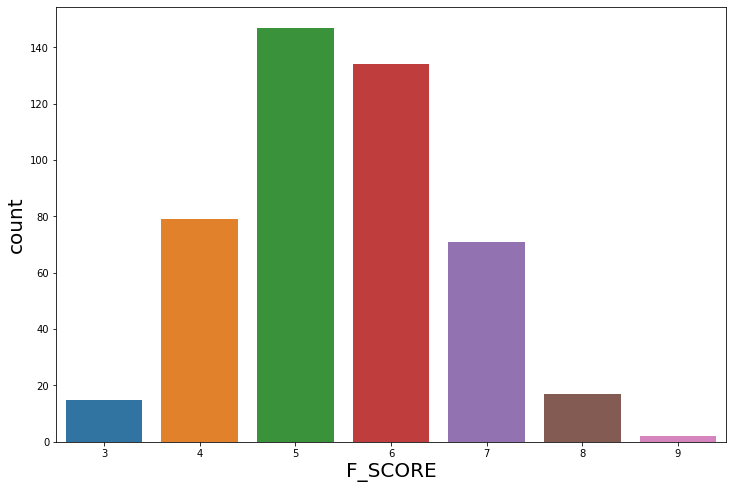
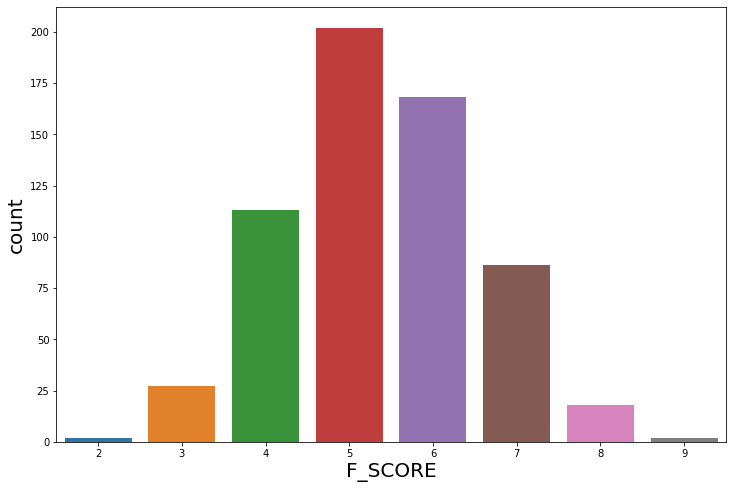
Edited Piotroski files

diff --git a/Piotroski_F-Score_Trading_Strategy_Implementation.md b/Piotroski_F-Score_Trading_Strategy_Implementation.md
@@ -248,7 +248,7 @@ def text_parse(text):
     financial statements to float values  
     '''
     text = text.strip('(').strip(')').strip('$').strip(' ')
-    if text == '-' or text == '':
+    if text == '-' or text == '' or text == 'N/A':
         return 0    
     elif text[-1] == 'T':
         return float(text.strip('T'))*1e12
@@ -259,8 +259,7 @@ def text_parse(text):
     elif text[-1] == 'K':
         return float(text.strip('K'))*1e3
     else:
-        print(text)
-        raise ValueError
+        return(float(text))
         
 ```
 
@@ -271,10 +270,10 @@ def text_parse(text):
 # getting the book values and market values, and their ratios for all the stocks in the list (wherever available) 
 # for the previous year
 
-Book_Value_list = []
-Market_Cap_list= []
-B2M_dict = dict()
-i=0
+#Book_Value_list = []
+#Market_Cap_list= []
+#B2M_dict = dict()
+#i=0
 for symbol in stocks:
     i+=1
     try:
@@ -287,7 +286,7 @@ for symbol in stocks:
         Market_Cap_list.append(Market_Cap)
         B2M = Book_Value/Market_Cap
         B2M_dict[symbol]=B2M
-    except (IndexError, ValueError) as error:
+    except (IndexError, ValueError, TypeError) as error:
         pass
 
     sorted_B2M_dict = {k: v for k, v in sorted(B2M_dict.items(), key=lambda item: item[1], reverse=True)}
@@ -313,7 +312,7 @@ np.mean(list(B2M_dict.values())), np.std(list(B2M_dict.values()))
 
 
 
-    (5.356255152943905, 115.70547827721475)
+    (4.193231510395126, 82.52421205439973, 2690)
 
 
 
@@ -357,7 +356,7 @@ np.quantile(B2M_values, 0.75)
 
 
 
-    0.5983468967003668
+    0.5685465346008152
 
 
 
@@ -372,7 +371,7 @@ np.mean(list(high_B2M_dict.values())), np.std(list(high_B2M_dict.values()))
 
 
 
-    (21.407043921947952, 230.07215485046513)
+    (16.171750550938068, 164.4056576395376)
 
 
 
@@ -446,7 +445,7 @@ for symbol in list(high_B2M_dict.keys()):
                      Gross_Profit_cur_year, Gross_Profit_last_year,
                      Total_Revenue_cur_year, Total_Revenue_last_year]
 
-        if None in financials or 0 in financials:
+        if None in financials:
             continue
 
         else:
@@ -492,7 +491,7 @@ for symbol in list(high_B2M_dict.keys()):
             F_SCORE = F_ROA + F_CFO + F_delta_ROA + F_ACCRUAL + F_delta_LEVER + F_delta_LIQUID + EQ_OFFER + F_delta_MARGIN + F_delta_TURN
 
             F_Score_df = F_Score_df.append(pd.DataFrame([[symbol ,F_ROA, F_CFO, F_delta_ROA, F_ACCRUAL, F_delta_LEVER, F_delta_LIQUID, EQ_OFFER, F_delta_MARGIN, F_delta_TURN, F_SCORE]],columns=columns),ignore_index=True)
-    except IndexError:
+    except (IndexError, ZeroDivisionError) as error:
         pass
 ```
 
@@ -625,7 +624,7 @@ F_Score_df
       <td>...</td>
     </tr>
     <tr>
-      <th>460</th>
+      <th>613</th>
       <td>XOM</td>
       <td>1</td>
       <td>1</td>
@@ -639,7 +638,7 @@ F_Score_df
       <td>5</td>
     </tr>
     <tr>
-      <th>461</th>
+      <th>614</th>
       <td>XRX</td>
       <td>1</td>
       <td>1</td>
@@ -653,7 +652,7 @@ F_Score_df
       <td>5</td>
     </tr>
     <tr>
-      <th>462</th>
+      <th>615</th>
       <td>YPF</td>
       <td>1</td>
       <td>1</td>
@@ -667,7 +666,7 @@ F_Score_df
       <td>5</td>
     </tr>
     <tr>
-      <th>463</th>
+      <th>616</th>
       <td>ZEUS</td>
       <td>1</td>
       <td>1</td>
@@ -681,7 +680,7 @@ F_Score_df
       <td>7</td>
     </tr>
     <tr>
-      <th>464</th>
+      <th>617</th>
       <td>ZLAB</td>
       <td>1</td>
       <td>1</td>
@@ -696,7 +695,7 @@ F_Score_df
     </tr>
   </tbody>
 </table>
-<p>465 rows × 11 columns</p>
+<p>618 rows × 11 columns</p>
 </div>
 
 
@@ -732,19 +731,19 @@ ax.xaxis.label.set_size(20)
 
 
 ```python
-len(F_Score_df[F_Score_df.F_SCORE==3]), len(F_Score_df[F_Score_df.F_SCORE==8]), len(F_Score_df[F_Score_df.F_SCORE==9])
+len(F_Score_df[F_Score_df.F_SCORE==2]), len(F_Score_df[F_Score_df.F_SCORE==3]), len(F_Score_df[F_Score_df.F_SCORE==8]), len(F_Score_df[F_Score_df.F_SCORE==9])
 ```
 
 
 
 
-    (15, 17, 2)
+    (2, 27, 18, 2)
 
 
 
 ### Deciding winners and losers
 
-As we see in this plot, we didn't find any firms with an F-Score of 0 and 1. We can choose the ~2 firms that have the F-Score of 9 along with the 17 firms with the F-Score of 8 for the long positions and the ~15 firms with F-Score of 3 for the short positions.
+As we see in this plot, we didn't find any firms with an F-Score of 0. We can choose the ~2 firms that have the F-Score of 9 along with the 18 firms with the F-Score of 8 for the long positions and the ~27 firms with the F-Score of 3 along with the 2-firms with the F-Score of 2, for the short positions.
 
 ### Potential Winners (Long Positions)
 
@@ -754,26 +753,27 @@ print(F_Score_df[F_Score_df.F_SCORE==9]['symbol'])
 print(F_Score_df[F_Score_df.F_SCORE==8]['symbol'])
 ```
 
-    286    NGD
-    326    PVG
+    376    NGD
+    440    PVG
     Name: symbol, dtype: object
     2       AAWW
-    33      ATNI
-    36       AUY
-    61       BTG
-    62       BTI
-    70       CBD
-    83       CLW
-    91      CNSL
-    118      DHT
-    120     DISH
-    149     EURN
-    248      LPG
-    256      MBT
-    278      NAT
-    329    QRTEA
-    330    QRTEB
-    377     STNG
+    44      ATNI
+    47       AUY
+    82       BTG
+    83       BTI
+    94       CBD
+    113      CLW
+    121     CNSL
+    153      DHT
+    155     DISH
+    193     EURN
+    319      LPG
+    328      MBT
+    366      NAT
+    384     NOMD
+    443    QRTEA
+    444    QRTEB
+    508     STNG
     Name: symbol, dtype: object
 
 
@@ -781,23 +781,44 @@ print(F_Score_df[F_Score_df.F_SCORE==8]['symbol'])
 
 
 ```python
+print(F_Score_df[F_Score_df.F_SCORE==2]['symbol'])
 print(F_Score_df[F_Score_df.F_SCORE==3]['symbol'])
 ```
 
-    43      BDL
-    45     BEDU
-    75     CECE
-    86     CMTL
-    164    FONR
-    205     HUN
-    212     IMO
-    216     IVC
-    219     JOB
-    246     LND
-    250     LRN
-    268     MOV
-    281      NC
-    297    NTWK
-    312     PHX
+    14     AINC
+    493    SMLP
+    Name: symbol, dtype: object
+    9      AENZ
+    57      BDL
+    59     BEDU
+    74      BLU
+    99     CECE
+    107     CHT
+    190     ETM
+    209    FLMN
+    211    FLXS
+    214     FMX
+    215    FONR
+    227    GENC
+    251    HAPP
+    267     HUN
+    276     IMO
+    281     IVC
+    285     JOB
+    317     LND
+    321     LRN
+    348     MOV
+    354    MSGE
+    369      NC
+    394    NTWK
+    406    OMAB
+    424     PHX
+    451     REX
+    498    SOHU
     Name: symbol, dtype: object
 
+
+
+```python
+
+```
